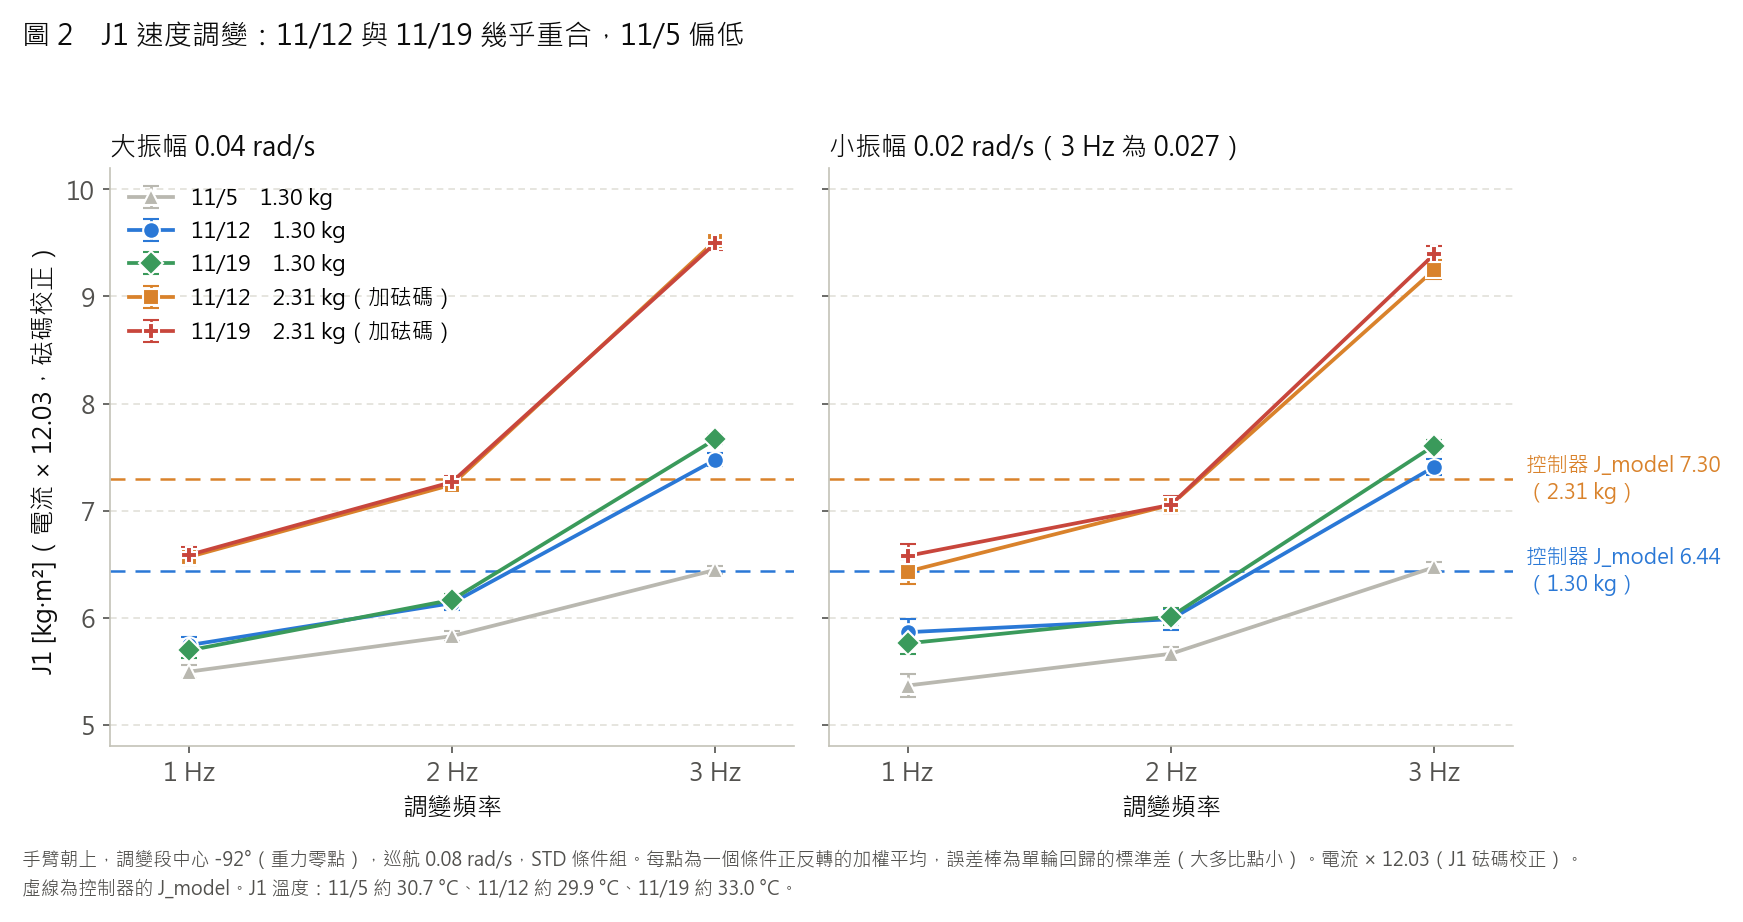
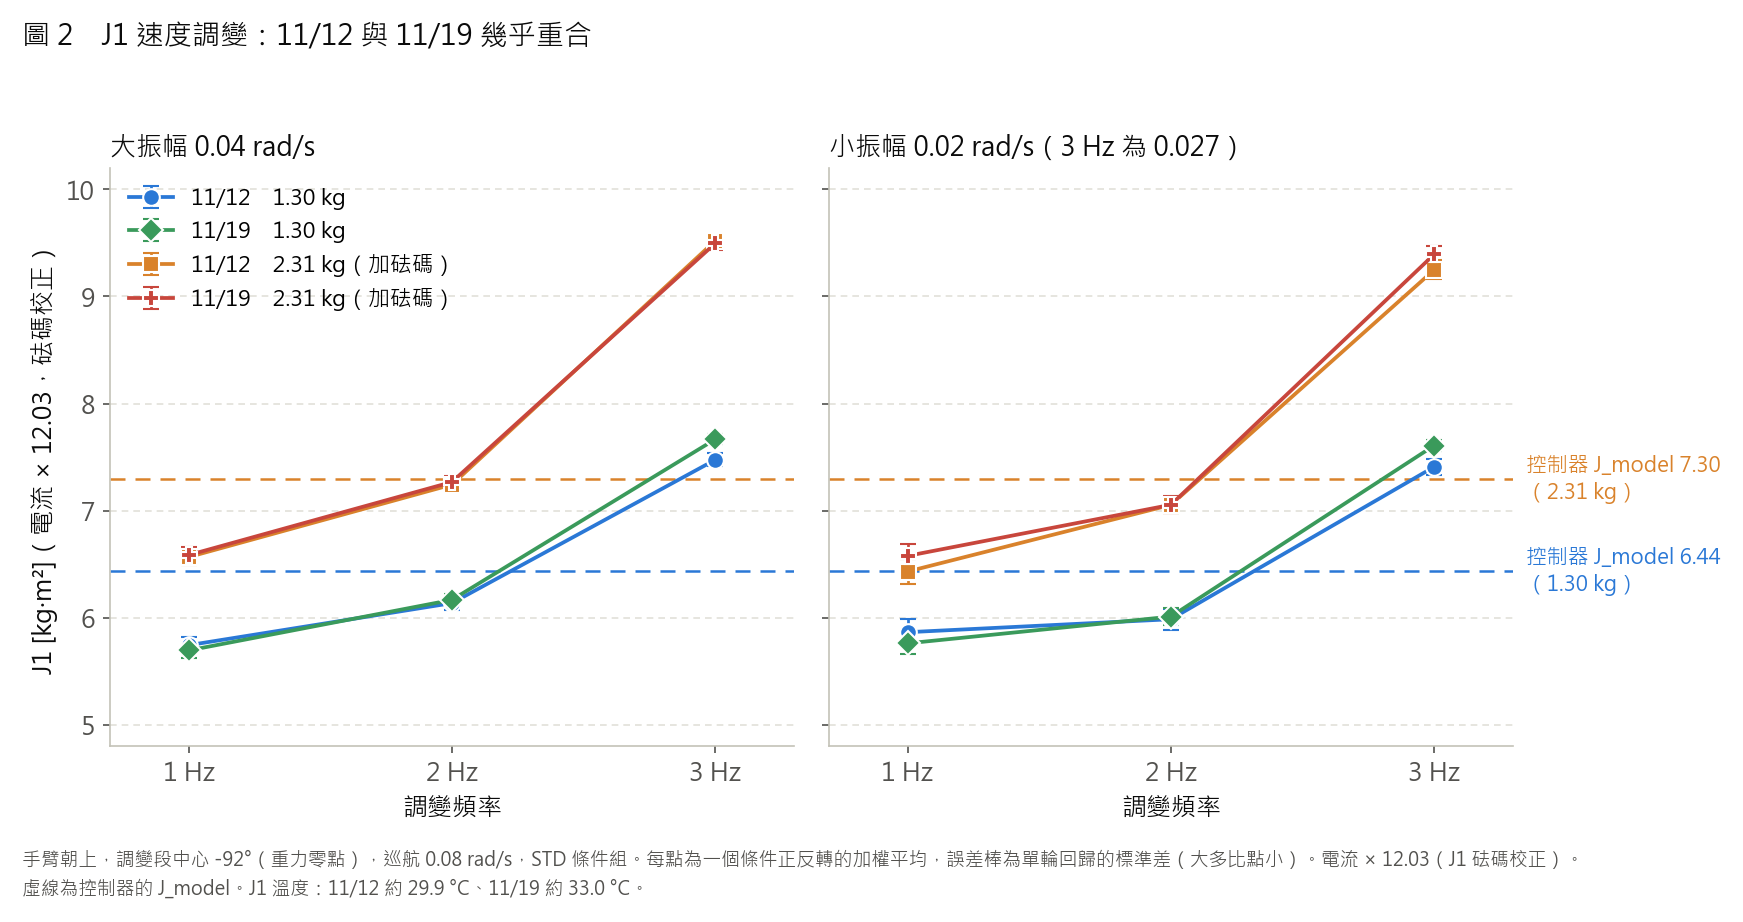
11/25 報告圖 2：拿掉 11/5，只留 11/12 與 11/19

diff --git a/analysis/1119/report_figs_1125.py b/analysis/1119/report_figs_1125.py
@@ -1,5 +1,5 @@
 """11/25 報告的圖（11/19 上機）。
-圖 2：J1 速度調變，J 對頻率：11/5、11/12、11/19 三次（1.30 kg），11/12、11/19 加砝碼（2.31 kg）。
+圖 2：J1 速度調變，J 對頻率：11/12、11/19 兩次（1.30 kg），11/12、11/19 加砝碼（2.31 kg）。
 圖 3：J1 砝碼的 ΔJ 對頻率：11/12 與 11/19，和控制器 ΔJ_model 比。
 圖 1：J2～J5 定速 DIAG：扣掉窗口內平均重力後的力矩對速度，Tc + B·v。
 圖 4：手腕 J3～J5 速度調變的 J（負值），和控制器 J_model 比。
@@ -89,7 +89,7 @@ def label_right(ax, pp, col, yl, fmt="{:.2f}"):
 AMP_TTL = ((True, "大振幅 0.04 rad/s"), (False, "小振幅 0.02 rad/s（3 Hz 為 0.027）"))
 
 # ---------------- 圖 1：J1 三次上機 ----------------
-runs = (("1105_p130", GRAY, "11/5　1.30 kg", "^"), ("1112_p130", BLUE, "11/12　1.30 kg", "o"),
+runs = (("1112_p130", BLUE, "11/12　1.30 kg", "o"),
         ("1119_p130", GREEN, "11/19　1.30 kg", "D"), ("1112_p231", ORANGE, "11/12　2.31 kg（加砝碼）", "s"),
         ("1119_p231", RED, "11/19　2.31 kg（加砝碼）", "P"))
 pts = {r: j1_points(r) for r, *_ in runs}
@@ -112,10 +112,10 @@ axs[0].legend(loc="upper left", frameon=False, fontsize=10.5)
 for jm, col, txt in ((jm130, BLUE, "1.30 kg"), (jm231, ORANGE, "2.31 kg")):
     axs[1].text(3.35, jm, f"控制器 J_model {jm:.2f}\n（{txt}）", ha="left", va="center", fontsize=10, color=col,
                 linespacing=1.3)
-fig.suptitle("圖 2　J1 速度調變：11/12 與 11/19 幾乎重合，11/5 偏低", x=0.01, ha="left", fontsize=13.5, color=INK)
+fig.suptitle("圖 2　J1 速度調變：11/12 與 11/19 幾乎重合", x=0.01, ha="left", fontsize=13.5, color=INK)
 fig.text(0.01, 0.005, "手臂朝上，調變段中心 -92°（重力零點），巡航 0.08 rad/s，STD 條件組。每點為一個條件正反轉的加權平均，"
          f"誤差棒為單輪回歸的標準差（大多比點小）。電流 × {K1}（J1 砝碼校正）。\n"
-         "虛線為控制器的 J_model。J1 溫度：11/5 約 30.7 °C、11/12 約 29.9 °C、11/19 約 33.0 °C。", ha="left", va="bottom",
+         "虛線為控制器的 J_model。J1 溫度：11/12 約 29.9 °C、11/19 約 33.0 °C。", ha="left", va="bottom",
          fontsize=9, color=INK2, linespacing=1.5)
 fig.tight_layout(rect=(0, 0.06, 0.93, 0.95))
 f1 = save(fig, "w1125_fig2_j1_velmod_3runs.png")
